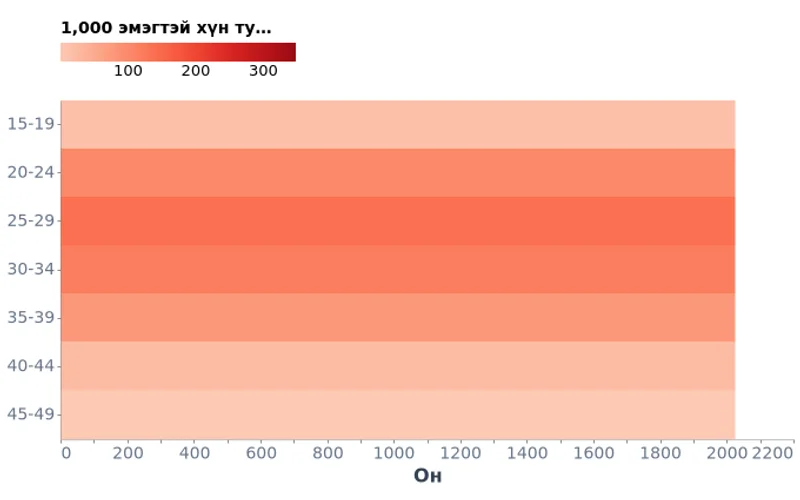
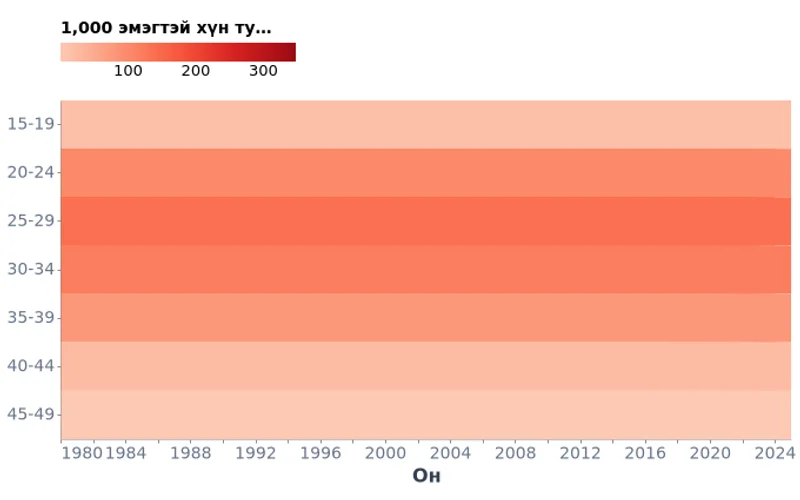
Fix heatmap x-axis baseline and comma-year tooltips
- birth-rate-heatmap: scale.zero=false so 1980-2025 fills the chart
- 9 datasets: format:d on year tooltips (was rendering '2,024')
- validate_vega.py: new check rejects unformatted integer-year tooltips

Changed region(s): [[0.375, 0.18, 1.0, 0.96], [0.0625, 0.87, 0.1875, 0.93], [0.2188, 0.87, 0.3438, 0.93]]

diff --git a/tools/scripts/validate_vega.py b/tools/scripts/validate_vega.py
@@ -181,6 +181,7 @@ class VegaValidator:
         self._validate_encoding()
         self._validate_config()
         self._validate_number_formats()
+        self._validate_year_formats()
         self._validate_best_practices()
         self._validate_brand_compliance()
 
@@ -207,6 +208,33 @@ class VegaValidator:
                                 "use ',' or a fixed-point format instead"
                             )
                     walk(child, child_path)
+            elif isinstance(value, list):
+                for index, child in enumerate(value):
+                    walk(child, f"{path}[{index}]")
+
+        walk(self.spec)
+
+    def _validate_year_formats(self):
+        """Integer years must use format 'd', else tooltips render '2,024'."""
+        def walk(value, path='spec'):
+            if isinstance(value, dict):
+                if 'tooltip' in value and isinstance(value['tooltip'], list):
+                    for index, entry in enumerate(value['tooltip']):
+                        if not isinstance(entry, dict):
+                            continue
+                        if entry.get('field') not in ('year', 'Year', 'он', 'Он'):
+                            continue
+                        if entry.get('type', 'quantitative') != 'quantitative':
+                            continue
+                        if 'timeUnit' in entry:
+                            continue
+                        if entry.get('format') != 'd':
+                            self.result.add_error(
+                                f"{path}.tooltip[{index}] year field without "
+                                "format 'd' renders comma years ('2,024')"
+                            )
+                for key, child in value.items():
+                    walk(child, f"{path}.{key}")
             elif isinstance(value, list):
                 for index, child in enumerate(value):
                     walk(child, f"{path}[{index}]")
